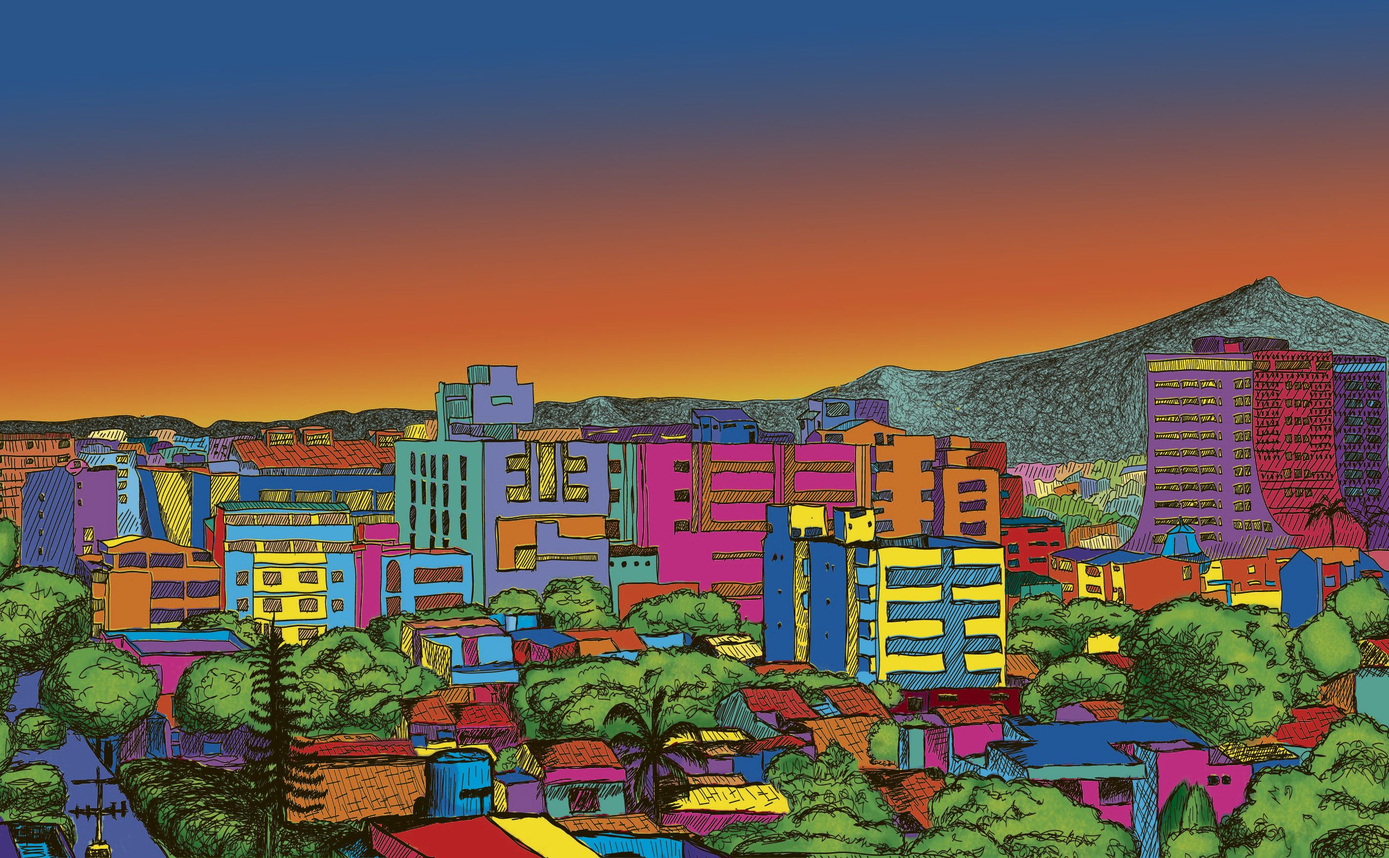
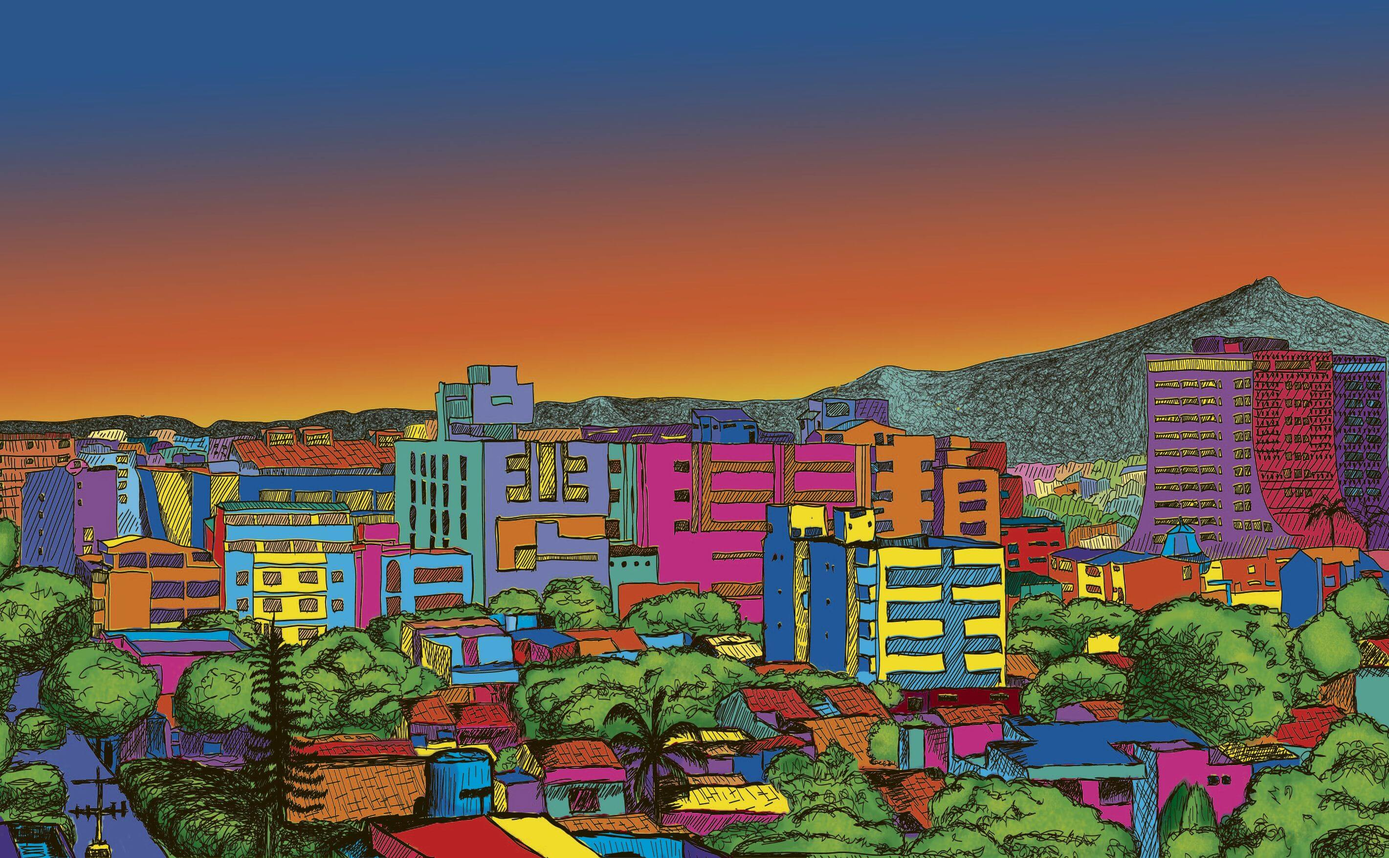
Images minified

diff --git a/css/style.css b/css/style.css
@@ -53,7 +53,7 @@ nav {
   margin-left: auto;
   margin-right: auto;
   height: 600px;
-  background-image: url('../images/cucuta.png');
+  background-image: url('../images/cucuta.jpg');
   background-position: center;
   background-repeat: no-repeat;
   background-size: cover;
@@ -341,7 +341,7 @@ textarea{
 ================================================================================
 */
 
-@media screen and (max-width: 1250px){
+@media (max-width: 1250px){
 
   .cultura{
     display: block;
@@ -388,7 +388,7 @@ textarea{
   }
 }
 
-@media screen and (max-width: 1024px) {
+@media (max-width: 1024px) {
 
   .cultura{
     display: block;
@@ -481,7 +481,7 @@ textarea{
   }
 }
 
-@media screen and (max-width: 800px){
+@media (max-width: 800px){
 
   .nav{
     height: auto;
@@ -554,7 +554,7 @@ textarea{
 
 }
 
-@media screen and (max-width: 523px) {
+@media (max-width: 523px) {
 
   .titulo{
     padding-top: 100px;
